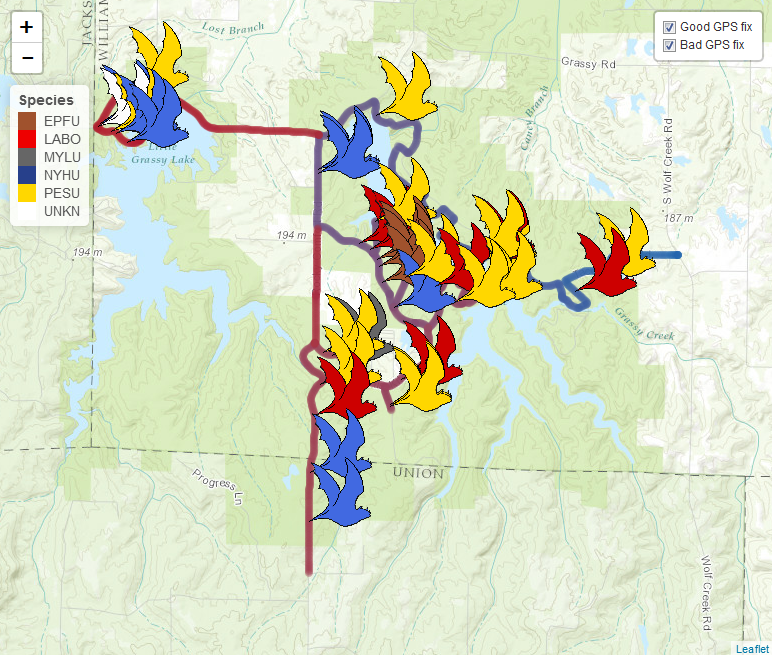
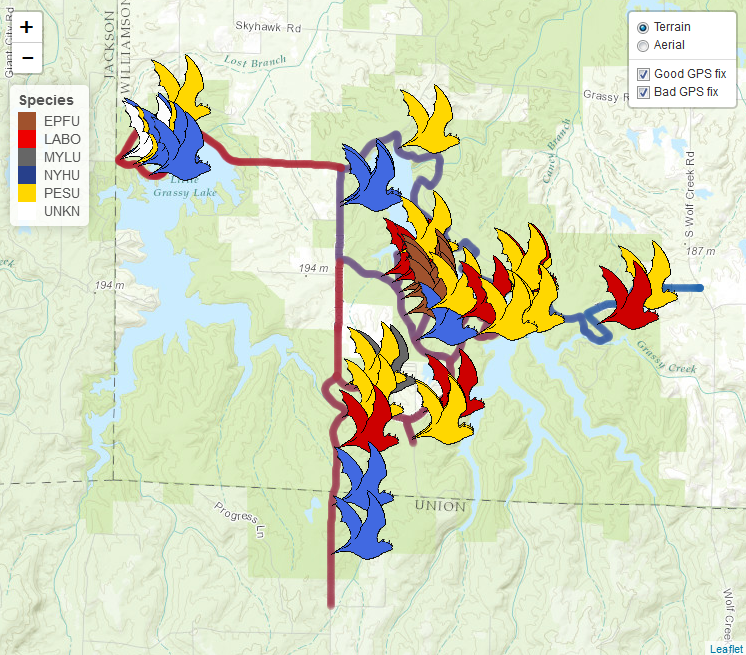
Revise aerial/terrain choice to base group selection

diff --git a/README.md b/README.md
@@ -50,18 +50,15 @@ Once these are selected, the function creates a new directory in the same folder
 
 With the survey route shapefiles created, the `plot_MABM_route` function allows the user to visualize the route and detections without the need to open ArcMap. We use the [leaflet package](http://rstudio.github.io/leaflet) package to facilitate interactivity.
 
-There are only two arguments the user is likely to specify --- how to define a "bad" GPS fix for a bat call detection (`badgps`; default is no GPS fix within 5 seconds of the detection) and a choice between two basemaps (`basemap`; terrain [default] and aerial imagery).
+There is only a single argument the user is likely to specify --- how to define a "bad" GPS fix for a bat call detection (`badgps`; default is no GPS fix within 5 seconds of the detection).
 
 For the Crab Orchard route we georeferenced, we can visualize the route and bat detections using the default options with:
 
 ``` r
 plot_MABM_route()
-
-# To get an aerial base map
-plot_MABM_route(basemap = "aerial")
 ```
 
-Either of these function calls will open a dialog box asking the user to locate the point shapefile created from the GPS log. This should begin with "SavedRoute".
+This will open a dialog box asking the user to locate the point shapefile created from the GPS log. This should begin with "SavedRoute".
 
 ![Choose the route shapefile](./README-figs/choose_shapefile.png)
 
@@ -70,6 +67,8 @@ The location of the detection point shapefile (begins with "Calls") is inferred 
 This produces an interactive plot of the route and bat detections (view an interactive version of this README **[here](http://rpubs.com/adamsmith_fws/MABM_readme)**.):
 
 ![Output](./README-figs/plot_output.png)
+
+A choice of a terrain or aerial imagery basemap is available.
 
 The route is shaded with a gradient indicating how much time (in minutes) has elapsed since the GPS acquired its first fix; the beginning of the route is blue and transitions to red at its completion. Large gaps in the route (e.g., due to GPS failure) should be apparent if they are present. Clicking on a GPS point along the route provides some information regarding that point (e.g., date, time, elapsed time since survey start).
 
